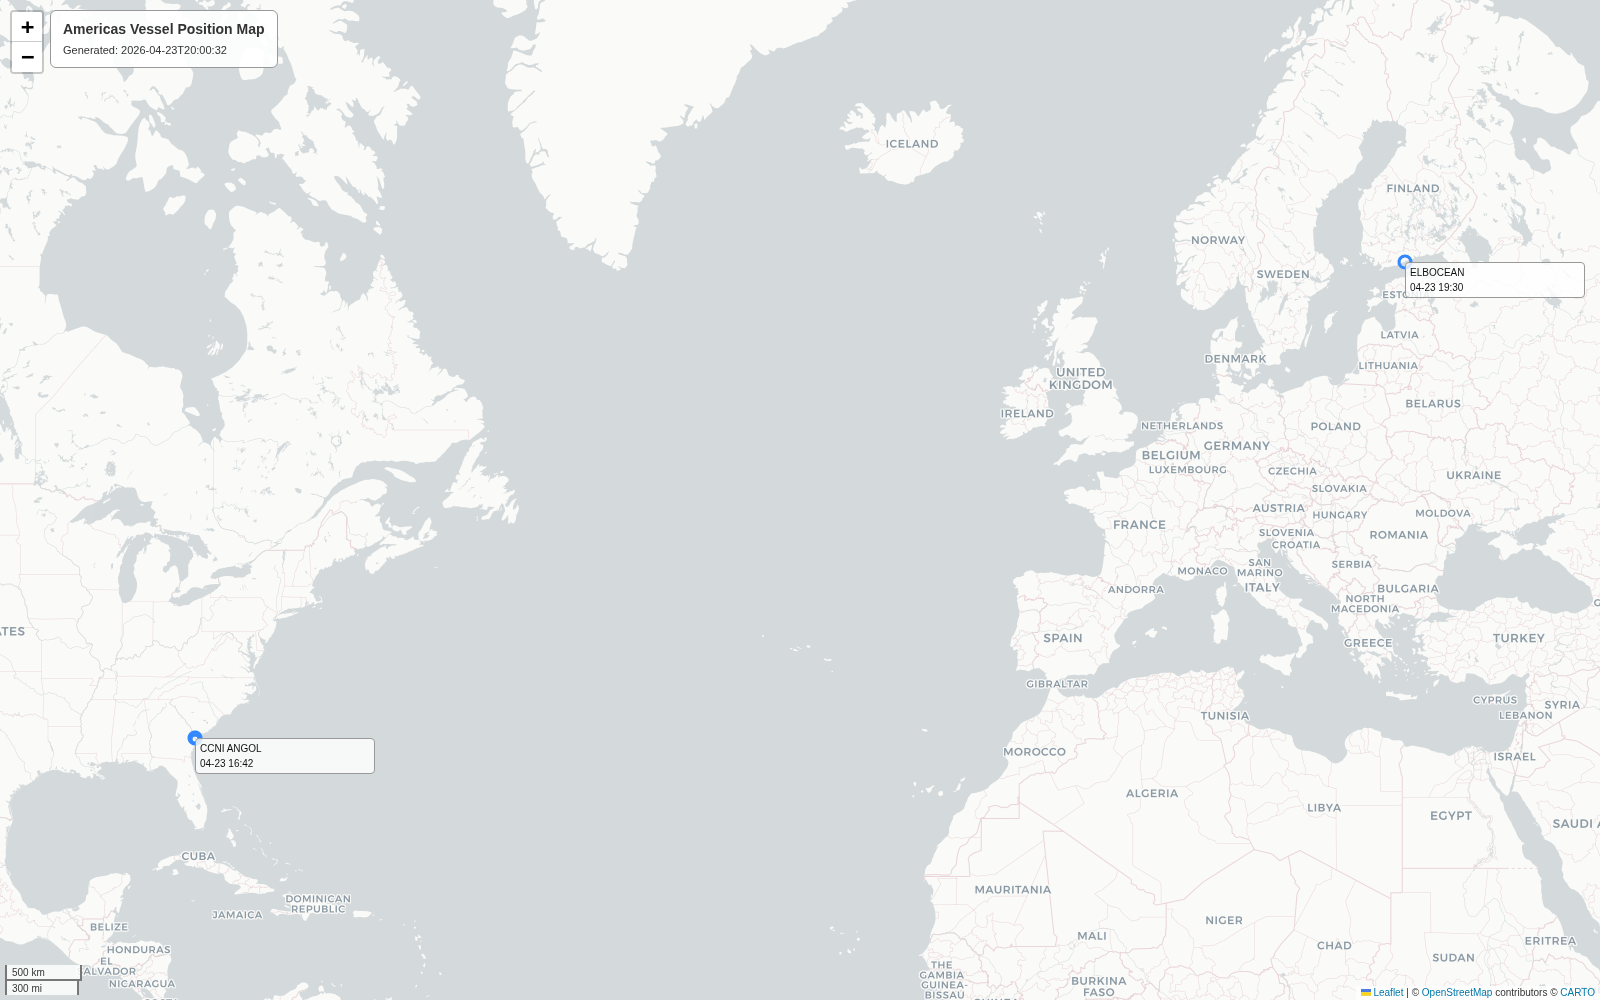
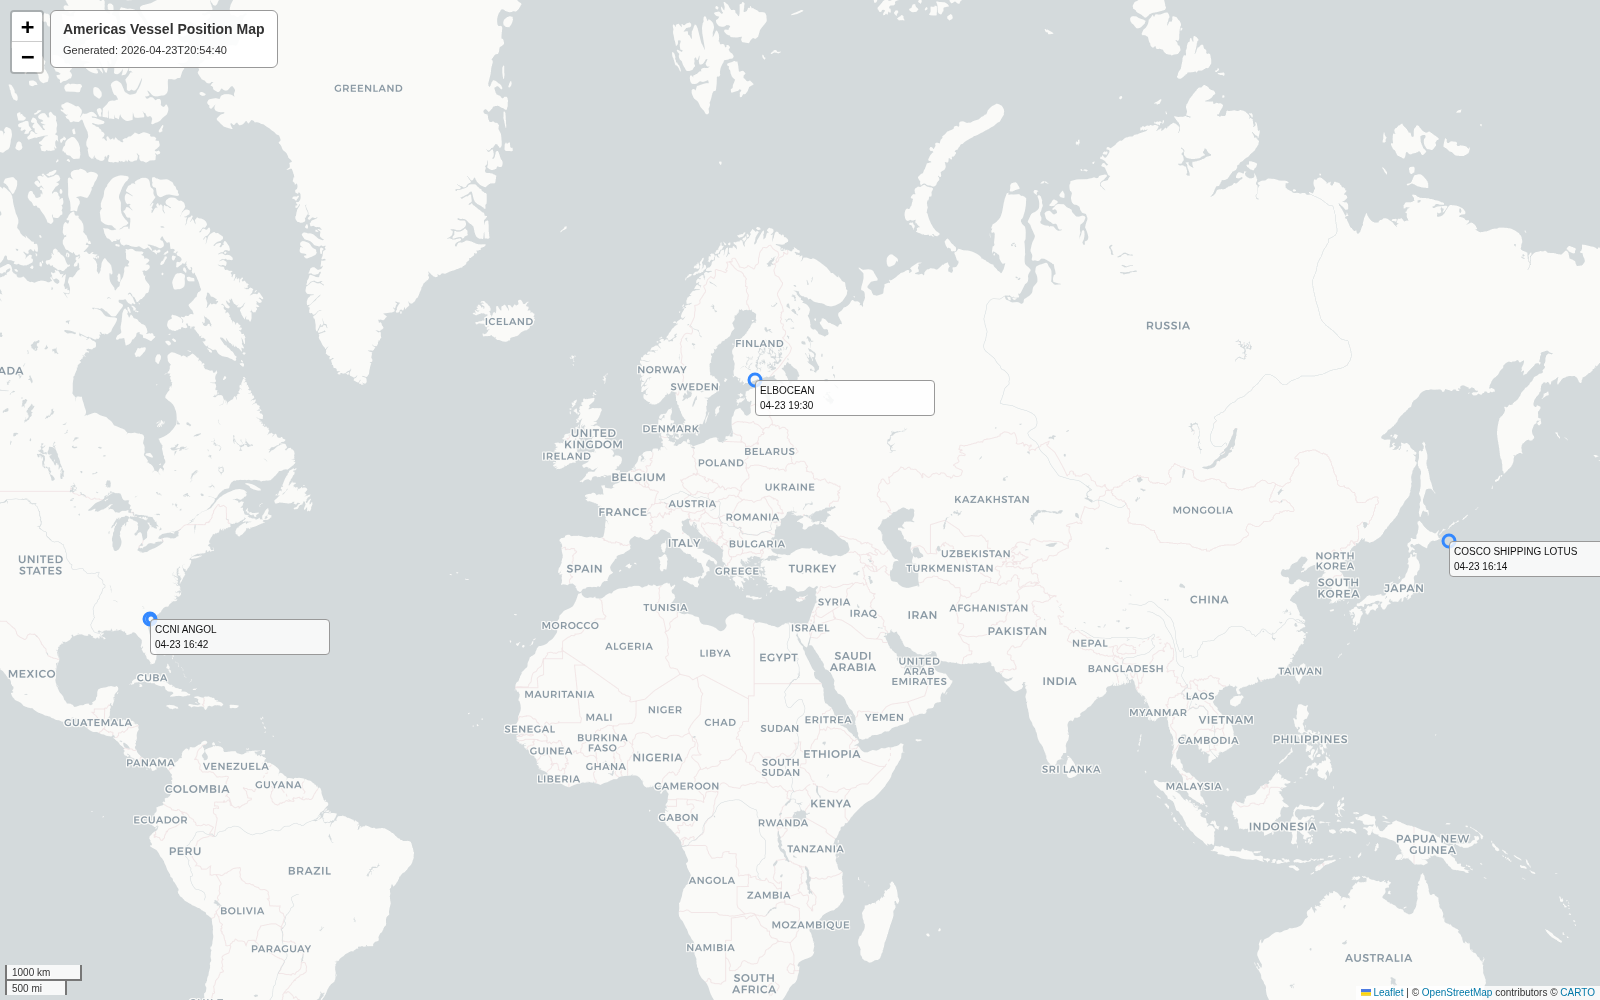
Update vessel positions and map from Marinesia

diff --git a/output/map.html b/output/map.html
@@ -17,7 +17,7 @@
             <meta name="viewport" content="width=device-width,
                 initial-scale=1.0, maximum-scale=1.0, user-scalable=no" />
             <style>
-                #map_52f353aaf931f24402bb5698bc2d40b4 {
+                #map_3ade357cc7ac1c6a9546e9349400c1db {
                     position: relative;
                     width: 100.0%;
                     height: 100.0%;
@@ -68,21 +68,21 @@
     ">
         Americas Vessel Position Map<br>
         <span style="font-size:11px; font-weight:normal;">
-            Generated: 2026-04-23T20:00:32
+            Generated: 2026-04-23T20:54:40
         </span>
     </div>
     
     
-            <div class="folium-map" id="map_52f353aaf931f24402bb5698bc2d40b4" ></div>
+            <div class="folium-map" id="map_3ade357cc7ac1c6a9546e9349400c1db" ></div>
         
 </body>
 <script>
     
     
-            var map_52f353aaf931f24402bb5698bc2d40b4 = L.map(
-                "map_52f353aaf931f24402bb5698bc2d40b4",
+            var map_3ade357cc7ac1c6a9546e9349400c1db = L.map(
+                "map_3ade357cc7ac1c6a9546e9349400c1db",
                 {
-                    center: [46.177755000000005, -27.975375],
+                    center: [45.088340666666674, 30.404776666666663],
                     crs: L.CRS.EPSG3857,
                     ...{
   "zoom": 3,
@@ -92,13 +92,13 @@
 
                 }
             );
-            L.control.scale().addTo(map_52f353aaf931f24402bb5698bc2d40b4);
+            L.control.scale().addTo(map_3ade357cc7ac1c6a9546e9349400c1db);
 
             
 
         
     
-            var tile_layer_97c4bb57216c77b97a7d0ce62918c1bc = L.tileLayer(
+            var tile_layer_ed3e7f0433250caeb4aa2201c4fcf601 = L.tileLayer(
                 "https://{s}.basemaps.cartocdn.com/light_all/{z}/{x}/{y}{r}.png",
                 {
   "minZoom": 0,
@@ -115,16 +115,16 @@
             );
         
     
-            tile_layer_97c4bb57216c77b97a7d0ce62918c1bc.addTo(map_52f353aaf931f24402bb5698bc2d40b4);
+            tile_layer_ed3e7f0433250caeb4aa2201c4fcf601.addTo(map_3ade357cc7ac1c6a9546e9349400c1db);
         
     
-            var poly_line_a635ae558e5ece50960d647e9160e795 = L.polyline(
+            var poly_line_5740ed901deb8884d9a072d768b77a97 = L.polyline(
                 [[31.047187, -81.32135]],
                 {"bubblingMouseEvents": true, "color": "#3388ff", "dashArray": null, "dashOffset": null, "fill": false, "fillColor": "#3388ff", "fillOpacity": 0.2, "fillRule": "evenodd", "lineCap": "round", "lineJoin": "round", "noClip": false, "opacity": 0.8, "smoothFactor": 1.0, "stroke": true, "weight": 2}
-            ).addTo(map_52f353aaf931f24402bb5698bc2d40b4);
+            ).addTo(map_3ade357cc7ac1c6a9546e9349400c1db);
         
     
-            poly_line_a635ae558e5ece50960d647e9160e795.bindTooltip(
+            poly_line_5740ed901deb8884d9a072d768b77a97.bindTooltip(
                 `<div>
                      CCNI ANGOL route to SAVANNAH
                  </div>`,
@@ -134,30 +134,30 @@
             );
         
     
-            var circle_marker_d977ce9334c9fb1042b0b3c2c393b7a2 = L.circleMarker(
+            var circle_marker_4e52743fb3abe65d1af43c86cee0aba2 = L.circleMarker(
                 [32.0809, -81.0998],
                 {"bubblingMouseEvents": true, "color": "#3388ff", "dashArray": null, "dashOffset": null, "fill": false, "fillColor": "#3388ff", "fillOpacity": 0.2, "fillRule": "evenodd", "lineCap": "round", "lineJoin": "round", "opacity": 1.0, "radius": 4, "stroke": true, "weight": 3}
-            ).addTo(map_52f353aaf931f24402bb5698bc2d40b4);
+            ).addTo(map_3ade357cc7ac1c6a9546e9349400c1db);
         
     
-        var popup_edccbbd1c9fb14786f905a0d07c36f69 = L.popup({
+        var popup_9c72d235a5cff4035cd03d6f3c287afd = L.popup({
   "maxWidth": 250,
 });
 
         
             
-                var html_c2fdd90a371dae727881e6bf78b3a442 = $(`<div id="html_c2fdd90a371dae727881e6bf78b3a442" style="width: 100.0%; height: 100.0%;"><b>Next Port</b><br>SAVANNAH</div>`)[0];
-                popup_edccbbd1c9fb14786f905a0d07c36f69.setContent(html_c2fdd90a371dae727881e6bf78b3a442);
+                var html_8fdc9e60c8abed21b4ff2753d3fc5176 = $(`<div id="html_8fdc9e60c8abed21b4ff2753d3fc5176" style="width: 100.0%; height: 100.0%;"><b>Next Port</b><br>SAVANNAH</div>`)[0];
+                popup_9c72d235a5cff4035cd03d6f3c287afd.setContent(html_8fdc9e60c8abed21b4ff2753d3fc5176);
             
         
 
-        circle_marker_d977ce9334c9fb1042b0b3c2c393b7a2.bindPopup(popup_edccbbd1c9fb14786f905a0d07c36f69)
+        circle_marker_4e52743fb3abe65d1af43c86cee0aba2.bindPopup(popup_9c72d235a5cff4035cd03d6f3c287afd)
         ;
 
         
     
     
-            circle_marker_d977ce9334c9fb1042b0b3c2c393b7a2.bindTooltip(
+            circle_marker_4e52743fb3abe65d1af43c86cee0aba2.bindTooltip(
                 `<div>
                      Next Port: SAVANNAH
                  </div>`,
@@ -167,30 +167,30 @@
             );
         
     
-            var circle_marker_cb40cf4249230b0265c92c20ea9c326c = L.circleMarker(
+            var circle_marker_455acbd72e94b1c57b284dfd6e77b7e5 = L.circleMarker(
                 [32.14013, -81.14314],
                 {"bubblingMouseEvents": true, "color": "#3388ff", "dashArray": null, "dashOffset": null, "fill": false, "fillColor": "#3388ff", "fillOpacity": 0.2, "fillRule": "evenodd", "lineCap": "round", "lineJoin": "round", "opacity": 1.0, "radius": 6, "stroke": true, "weight": 3}
-            ).addTo(map_52f353aaf931f24402bb5698bc2d40b4);
+            ).addTo(map_3ade357cc7ac1c6a9546e9349400c1db);
         
     
-        var popup_0a1ba93ea3876a544b3c10b03a733679 = L.popup({
+        var popup_f8ece9b091b1b153836dd550fe38652c = L.popup({
   "maxWidth": 320,
 });
 
         
             
-                var html_cea5bbd5ef717ab24a2d5c73a09163ce = $(`<div id="html_cea5bbd5ef717ab24a2d5c73a09163ce" style="width: 100.0%; height: 100.0%;">     <div style="font-size:12px; line-height:1.4;">       <b>CCNI ANGOL</b><br>       Shipment: TEST-001<br>       Status: LIVE<br>       Last Seen: 04-23 16:42<br>       Next Port: SAVANNAH<br>       Lat/Lon: 32.14013, -81.14314     </div>     </div>`)[0];
-                popup_0a1ba93ea3876a544b3c10b03a733679.setContent(html_cea5bbd5ef717ab24a2d5c73a09163ce);
+                var html_59f28765789ae452e09b13a74ed9a5cf = $(`<div id="html_59f28765789ae452e09b13a74ed9a5cf" style="width: 100.0%; height: 100.0%;">     <div style="font-size:12px; line-height:1.4;">       <b>CCNI ANGOL</b><br>       Shipment: TEST-001<br>       Status: LIVE<br>       Last Seen: 04-23 16:42<br>       Next Port: SAVANNAH<br>       Lat/Lon: 32.14013, -81.14314     </div>     </div>`)[0];
+                popup_f8ece9b091b1b153836dd550fe38652c.setContent(html_59f28765789ae452e09b13a74ed9a5cf);
             
         
 
-        circle_marker_cb40cf4249230b0265c92c20ea9c326c.bindPopup(popup_0a1ba93ea3876a544b3c10b03a733679)
+        circle_marker_455acbd72e94b1c57b284dfd6e77b7e5.bindPopup(popup_f8ece9b091b1b153836dd550fe38652c)
         ;
 
         
     
     
-            circle_marker_cb40cf4249230b0265c92c20ea9c326c.bindTooltip(
+            circle_marker_455acbd72e94b1c57b284dfd6e77b7e5.bindTooltip(
                 `<div>
                      CCNI ANGOL
                  </div>`,
@@ -200,14 +200,14 @@
             );
         
     
-            var marker_c466fd74308c61f760e078c39358797c = L.marker(
+            var marker_66ca41ed5364de81d36f12ec22efc9bf = L.marker(
                 [32.14013, -81.14314],
                 {
 }
-            ).addTo(map_52f353aaf931f24402bb5698bc2d40b4);
+            ).addTo(map_3ade357cc7ac1c6a9546e9349400c1db);
         
     
-            var div_icon_fb2023896eb0c5fd93ae227529bee0b7 = L.divIcon({
+            var div_icon_cfa15b7dac5154d87164e5278dd9e86b = L.divIcon({
   "html": "\n            \u003cdiv style=\"\n                font-size: 10px;\n                color: #111;\n                background-color: rgba(255,255,255,0.8);\n                border: 1px solid #999;\n                border-radius: 4px;\n                padding: 2px 4px;\n                white-space: nowrap;\n            \"\u003e\n                CCNI ANGOL\u003cbr\u003e\u003cspan style=\u0027font-size:10px\u0027\u003e04-23 16:42\u003c/span\u003e\n            \u003c/div\u003e\n            ",
   "iconSize": [180, 36],
   "iconAnchor": [0, 0],
@@ -215,33 +215,33 @@
 });
         
     
-                marker_c466fd74308c61f760e078c39358797c.setIcon(div_icon_fb2023896eb0c5fd93ae227529bee0b7);
+                marker_66ca41ed5364de81d36f12ec22efc9bf.setIcon(div_icon_cfa15b7dac5154d87164e5278dd9e86b);
             
     
-            var circle_marker_3d0922c580966a49fc7e93dd1c4093f3 = L.circleMarker(
+            var circle_marker_cf3e05aa194ffceae223dba930e456e5 = L.circleMarker(
                 [60.21538, 25.19239],
                 {"bubblingMouseEvents": true, "color": "#3388ff", "dashArray": null, "dashOffset": null, "fill": false, "fillColor": "#3388ff", "fillOpacity": 0.2, "fillRule": "evenodd", "lineCap": "round", "lineJoin": "round", "opacity": 1.0, "radius": 6, "stroke": true, "weight": 3}
-            ).addTo(map_52f353aaf931f24402bb5698bc2d40b4);
+            ).addTo(map_3ade357cc7ac1c6a9546e9349400c1db);
         
     
-        var popup_3c9ea0bde38362e3f685f1f85e4e8bfd = L.popup({
+        var popup_0f306e698d25f28950ab48ea8d19f234 = L.popup({
   "maxWidth": 320,
 });
 
         
             
-                var html_ed57c8d1f5cc3ee779114e24bbc5802b = $(`<div id="html_ed57c8d1f5cc3ee779114e24bbc5802b" style="width: 100.0%; height: 100.0%;">     <div style="font-size:12px; line-height:1.4;">       <b>ELBOCEAN</b><br>       Shipment: TEST-002<br>       Status: LIVE<br>       Last Seen: 04-23 19:30<br>       Next Port: FIHEL<br>       Lat/Lon: 60.21538, 25.19239     </div>     </div>`)[0];
-                popup_3c9ea0bde38362e3f685f1f85e4e8bfd.setContent(html_ed57c8d1f5cc3ee779114e24bbc5802b);
+                var html_a81c51fe53583e16d0ba7af7e11c46e2 = $(`<div id="html_a81c51fe53583e16d0ba7af7e11c46e2" style="width: 100.0%; height: 100.0%;">     <div style="font-size:12px; line-height:1.4;">       <b>ELBOCEAN</b><br>       Shipment: TEST-002<br>       Status: LIVE<br>       Last Seen: 04-23 19:30<br>       Next Port: FIHEL<br>       Lat/Lon: 60.21538, 25.19239     </div>     </div>`)[0];
+                popup_0f306e698d25f28950ab48ea8d19f234.setContent(html_a81c51fe53583e16d0ba7af7e11c46e2);
             
         
 
-        circle_marker_3d0922c580966a49fc7e93dd1c4093f3.bindPopup(popup_3c9ea0bde38362e3f685f1f85e4e8bfd)
+        circle_marker_cf3e05aa194ffceae223dba930e456e5.bindPopup(popup_0f306e698d25f28950ab48ea8d19f234)
         ;
 
         
     
     
-            circle_marker_3d0922c580966a49fc7e93dd1c4093f3.bindTooltip(
+            circle_marker_cf3e05aa194ffceae223dba930e456e5.bindTooltip(
                 `<div>
                      ELBOCEAN
                  </div>`,
@@ -251,14 +251,14 @@
             );
         
     
-            var marker_a0be5ef44ca1f9f43637004b2d9c10f9 = L.marker(
+            var marker_99ae5c2a0324bff18d9486f661a8e387 = L.marker(
                 [60.21538, 25.19239],
                 {
 }
-            ).addTo(map_52f353aaf931f24402bb5698bc2d40b4);
+            ).addTo(map_3ade357cc7ac1c6a9546e9349400c1db);
         
     
-            var div_icon_fa46716dd50d5636dc5308b23ad40bbc = L.divIcon({
+            var div_icon_7249cc7697482593b93843b3f0d36791 = L.divIcon({
   "html": "\n            \u003cdiv style=\"\n                font-size: 10px;\n                color: #111;\n                background-color: rgba(255,255,255,0.8);\n                border: 1px solid #999;\n                border-radius: 4px;\n                padding: 2px 4px;\n                white-space: nowrap;\n            \"\u003e\n                ELBOCEAN\u003cbr\u003e\u003cspan style=\u0027font-size:10px\u0027\u003e04-23 19:30\u003c/span\u003e\n            \u003c/div\u003e\n            ",
   "iconSize": [180, 36],
   "iconAnchor": [0, 0],
@@ -266,11 +266,62 @@
 });
         
     
-                marker_a0be5ef44ca1f9f43637004b2d9c10f9.setIcon(div_icon_fa46716dd50d5636dc5308b23ad40bbc);
+                marker_99ae5c2a0324bff18d9486f661a8e387.setIcon(div_icon_7249cc7697482593b93843b3f0d36791);
             
     
-            map_52f353aaf931f24402bb5698bc2d40b4.fitBounds(
-                [[32.14013, -81.14314], [60.21538, 25.19239]],
+            var circle_marker_428d0b20ee82f0f51f9b3632625a228d = L.circleMarker(
+                [42.909512, 147.16508],
+                {"bubblingMouseEvents": true, "color": "#3388ff", "dashArray": null, "dashOffset": null, "fill": false, "fillColor": "#3388ff", "fillOpacity": 0.2, "fillRule": "evenodd", "lineCap": "round", "lineJoin": "round", "opacity": 1.0, "radius": 6, "stroke": true, "weight": 3}
+            ).addTo(map_3ade357cc7ac1c6a9546e9349400c1db);
+        
+    
+        var popup_a4b02bb2f372aa2068debb9171e2bdc3 = L.popup({
+  "maxWidth": 320,
+});
+
+        
+            
+                var html_ba7aaaf8c27201653691241e402ba5a1 = $(`<div id="html_ba7aaaf8c27201653691241e402ba5a1" style="width: 100.0%; height: 100.0%;">     <div style="font-size:12px; line-height:1.4;">       <b>COSCO SHIPPING LOTUS</b><br>       Shipment: TEST-003<br>       Status: LIVE<br>       Last Seen: 04-23 16:14<br>       Next Port: PAPCN<br>       Lat/Lon: 42.909512, 147.16508     </div>     </div>`)[0];
+                popup_a4b02bb2f372aa2068debb9171e2bdc3.setContent(html_ba7aaaf8c27201653691241e402ba5a1);
+            
+        
+
+        circle_marker_428d0b20ee82f0f51f9b3632625a228d.bindPopup(popup_a4b02bb2f372aa2068debb9171e2bdc3)
+        ;
+
+        
+    
+    
+            circle_marker_428d0b20ee82f0f51f9b3632625a228d.bindTooltip(
+                `<div>
+                     COSCO SHIPPING LOTUS
+                 </div>`,
+                {
+  "sticky": true,
+}
+            );
+        
+    
+            var marker_2c5f3ad783f93277b0dfd44957d35ea8 = L.marker(
+                [42.909512, 147.16508],
+                {
+}
+            ).addTo(map_3ade357cc7ac1c6a9546e9349400c1db);
+        
+    
+            var div_icon_cf4802d4c8412bd53cebdaad1cf96d22 = L.divIcon({
+  "html": "\n            \u003cdiv style=\"\n                font-size: 10px;\n                color: #111;\n                background-color: rgba(255,255,255,0.8);\n                border: 1px solid #999;\n                border-radius: 4px;\n                padding: 2px 4px;\n                white-space: nowrap;\n            \"\u003e\n                COSCO SHIPPING LOTUS\u003cbr\u003e\u003cspan style=\u0027font-size:10px\u0027\u003e04-23 16:14\u003c/span\u003e\n            \u003c/div\u003e\n            ",
+  "iconSize": [180, 36],
+  "iconAnchor": [0, 0],
+  "className": "empty",
+});
+        
+    
+                marker_2c5f3ad783f93277b0dfd44957d35ea8.setIcon(div_icon_cf4802d4c8412bd53cebdaad1cf96d22);
+            
+    
+            map_3ade357cc7ac1c6a9546e9349400c1db.fitBounds(
+                [[32.14013, -81.14314], [60.21538, 25.19239], [42.909512, 147.16508]],
                 {"padding": [40, 40]}
             );
         
